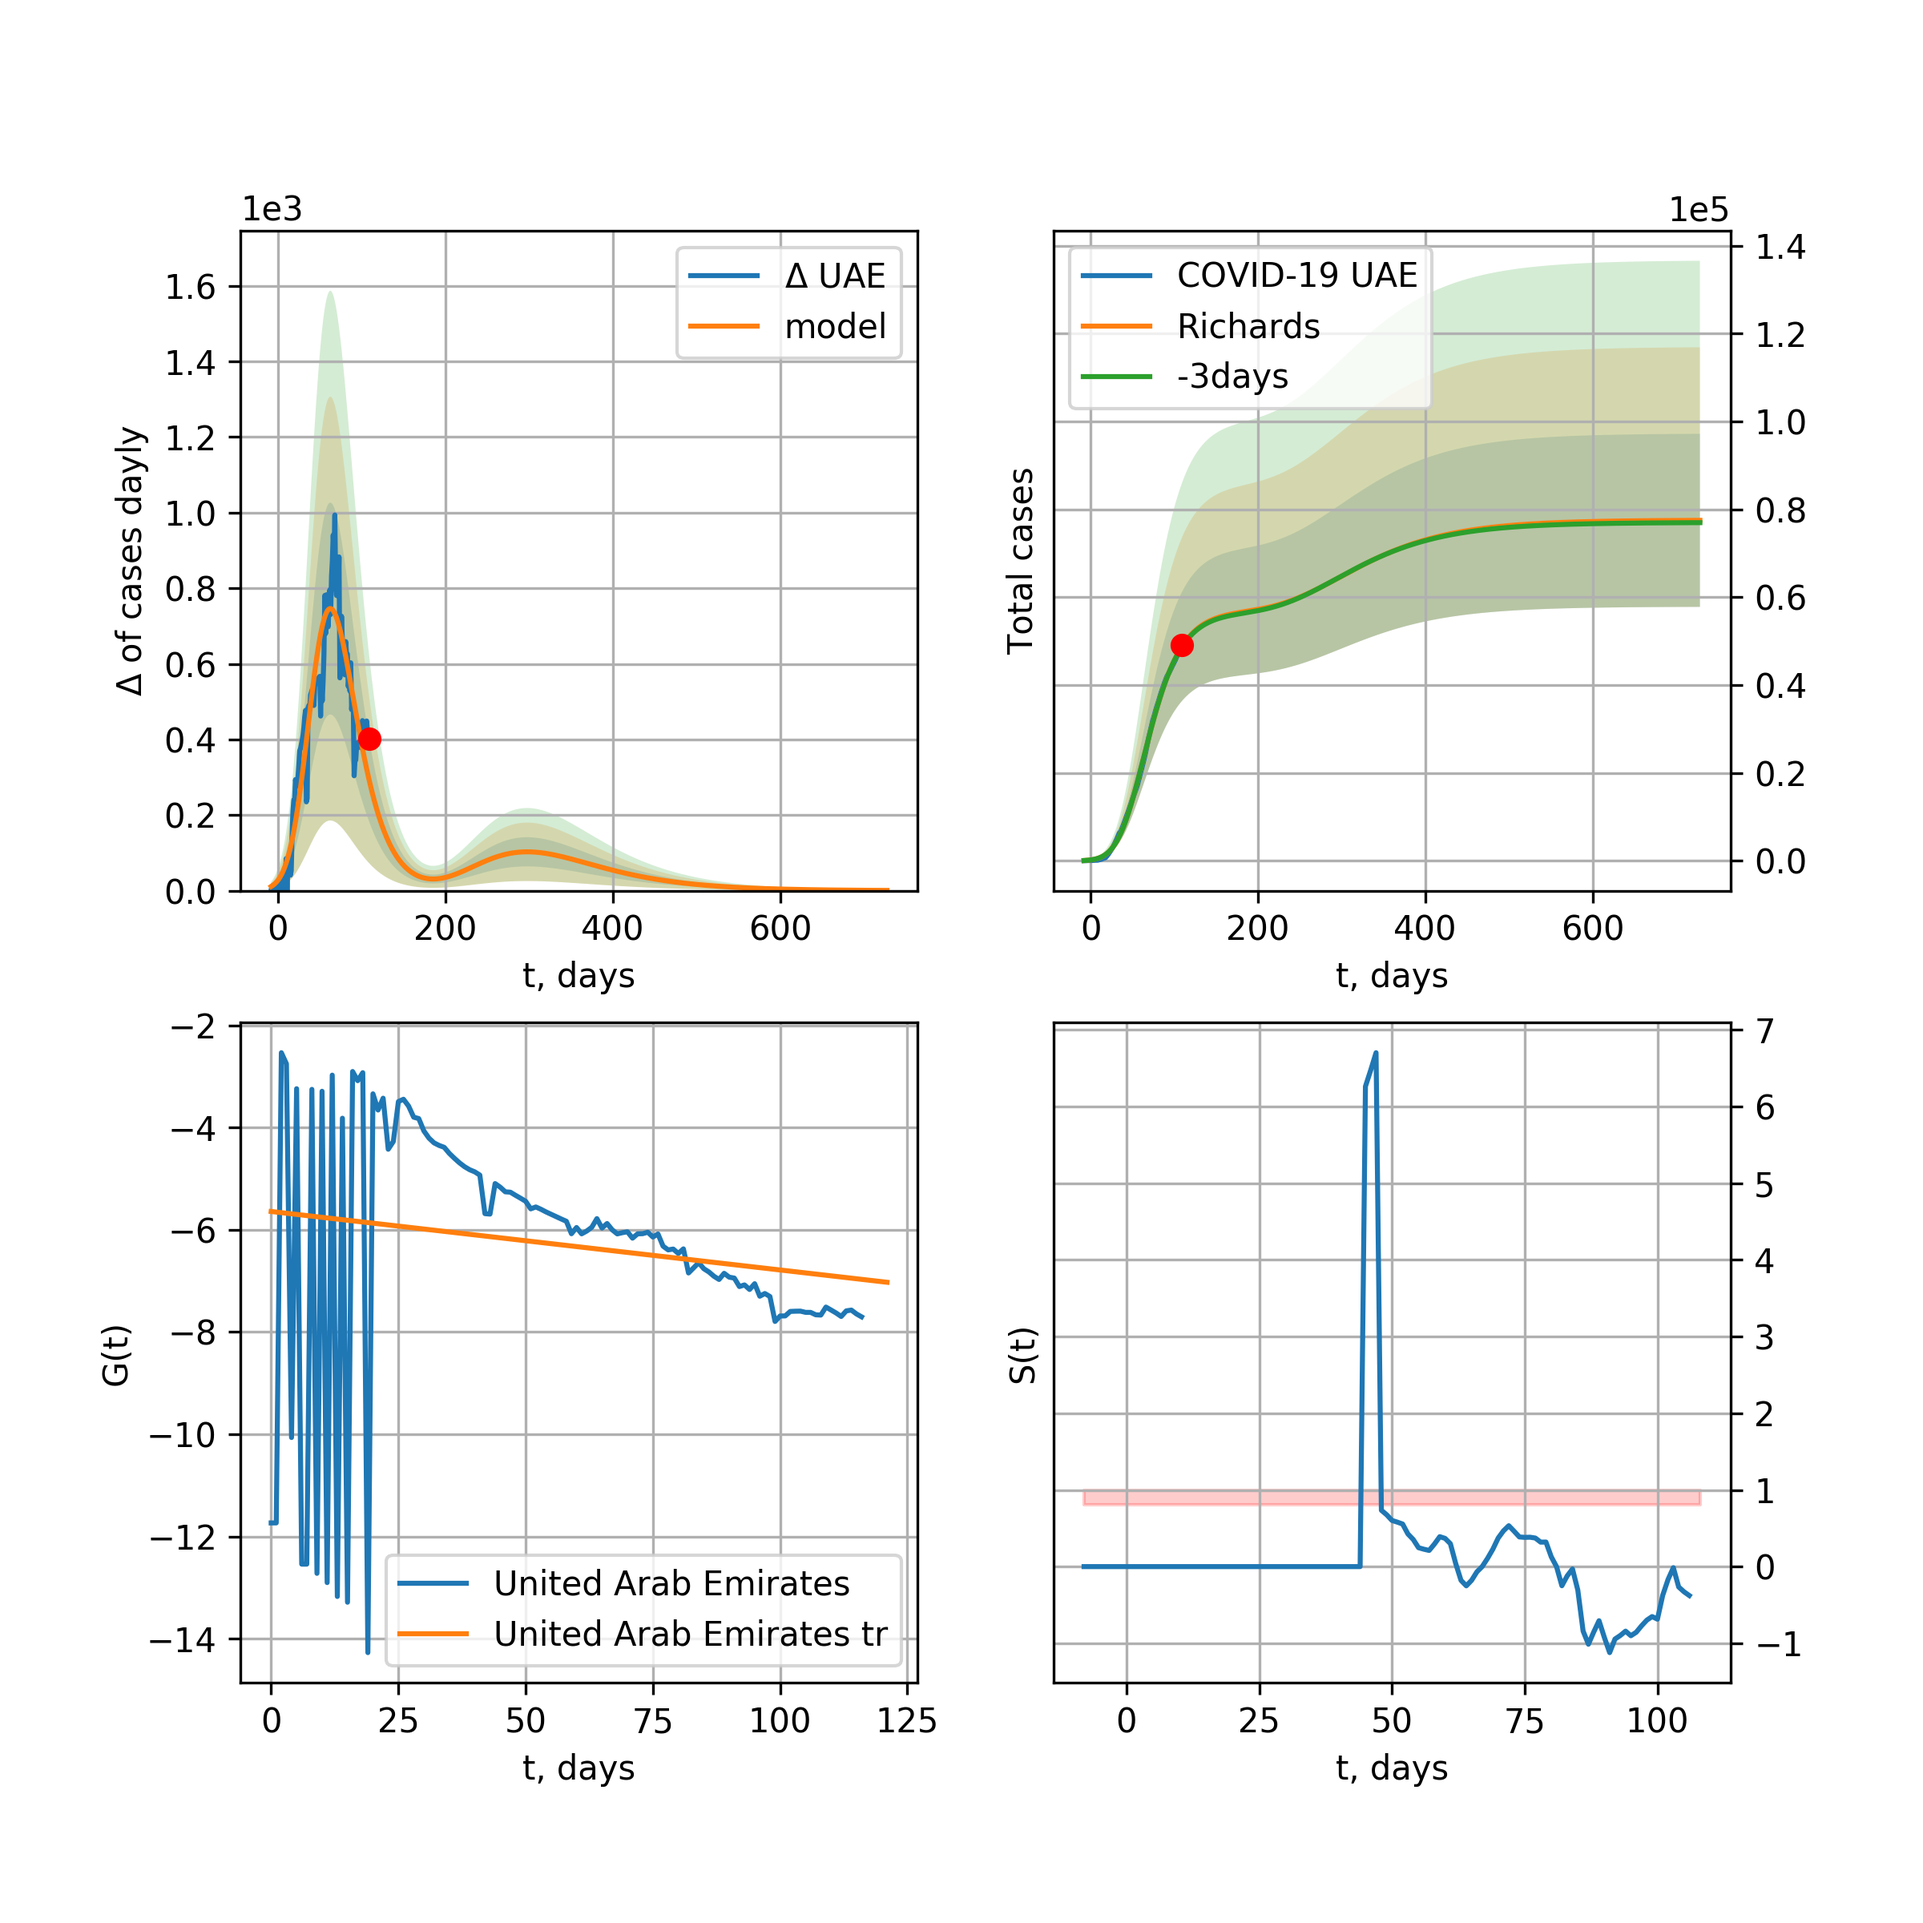
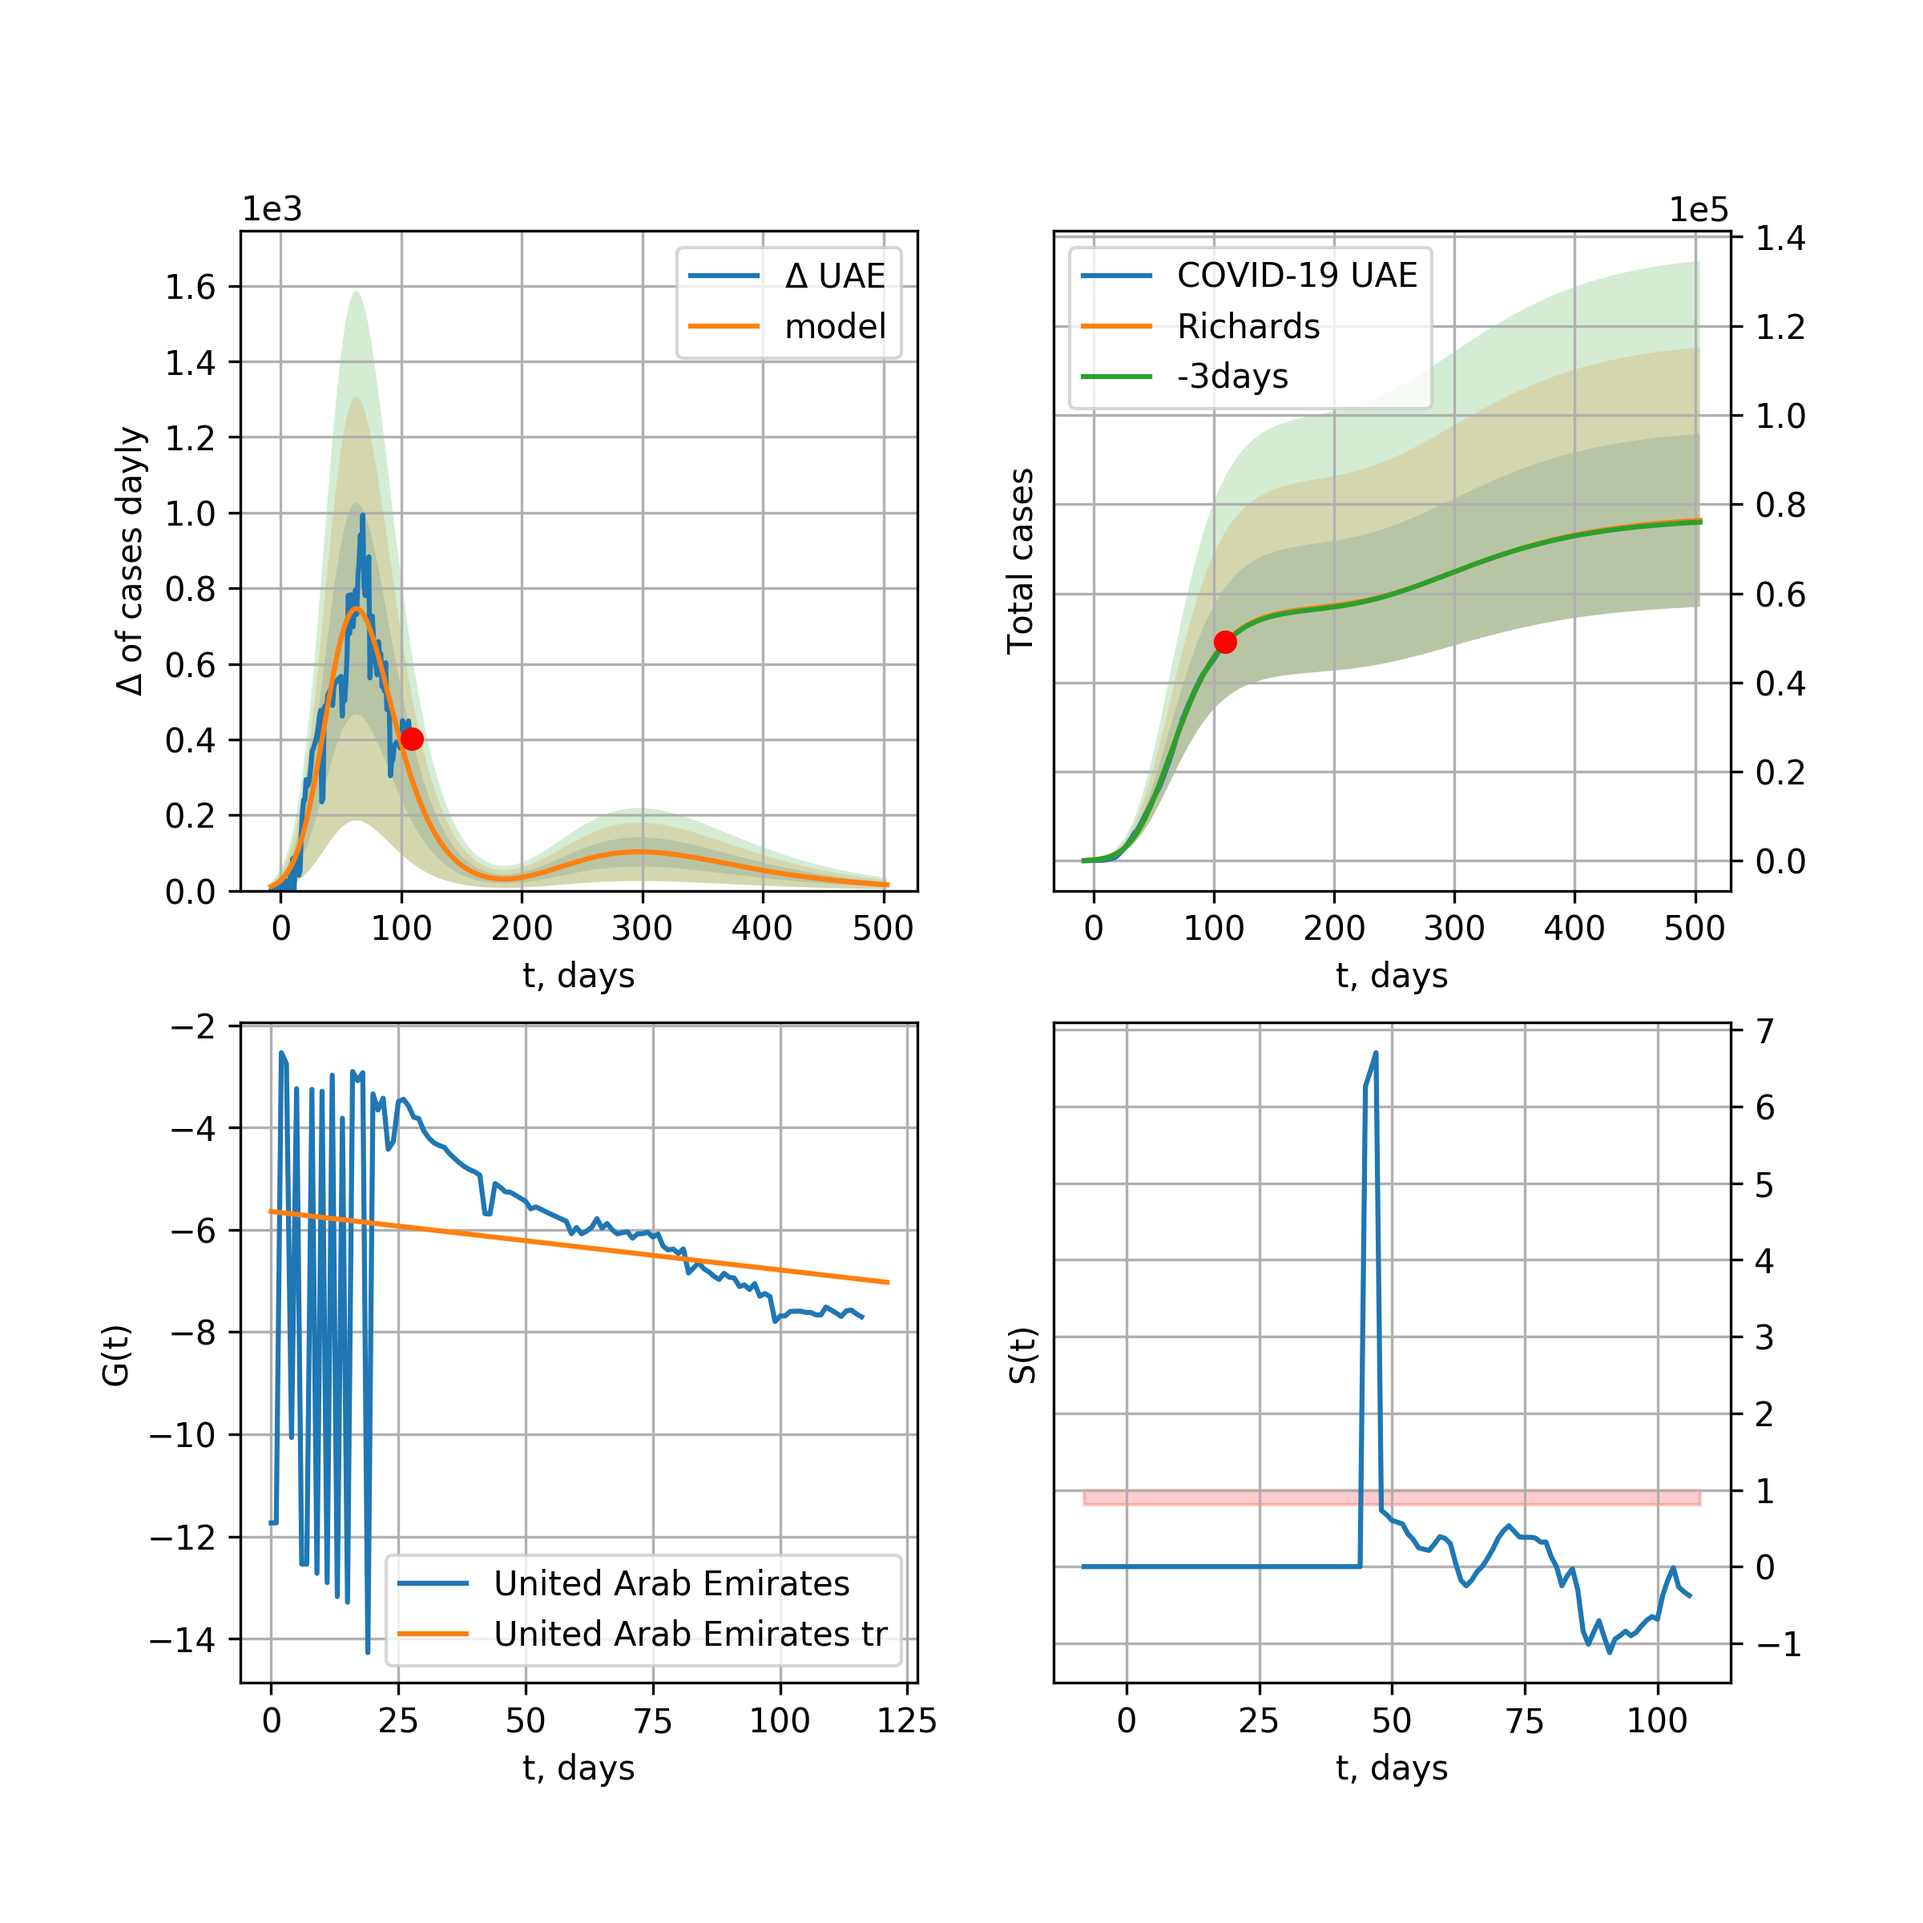
UAE renew 2020-06-30

diff --git a/_site/index.html b/_site/index.html
@@ -824,10 +824,10 @@ model: Richards<br />
 coeffs: [5.69249414e+04 1.50325428e-01 3.05043428e+01 2.68271458e-01]<br />
 S.Korea scenario coeffs: [0.36242246, 2.56241634, 1.84890887, 0.13324732]<br />
 rational stdev: 0.254066<br />
-forecast at the end of period: +619 days<br />
-	 deltaDaycases: 0<br />
-	 total cases: 77500 ± 19690<br />
-	 total death: 499 ± 380<br />
+forecast at the end of period: +395 days<br />
+	 deltaDaycases: 15<br />
+	 total cases: 76376 ± 19404<br />
+	 total death: 491 ± 374<br />
 trend coefficient of determination: 0.026501 <br />
  intercept: -5.640461 <br />
  slope: -0.011448<br />
